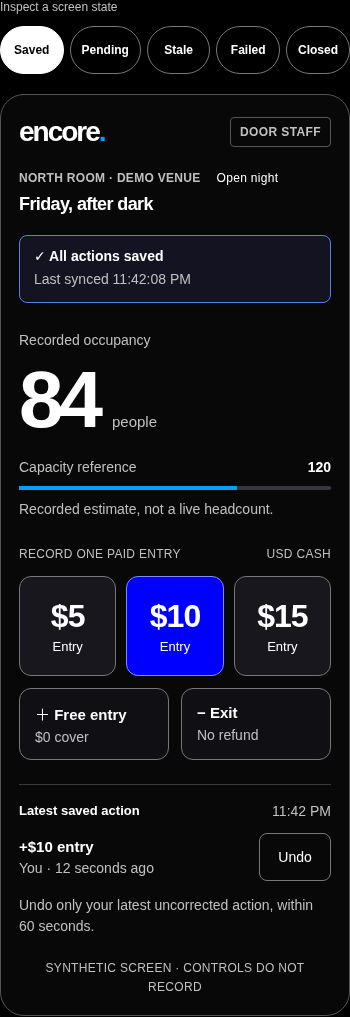
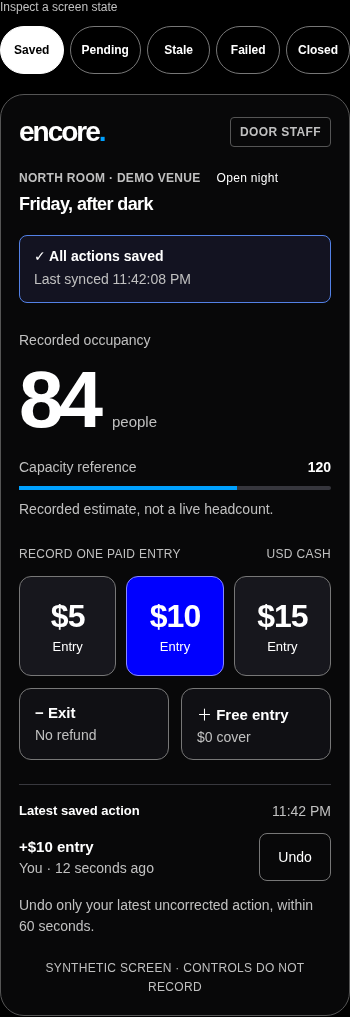
design: place exit left and free entry right

Changed region(s): [[0.0857, 0.6706, 0.3714, 0.7316], [0.5714, 0.6706, 0.8286, 0.7316]]

diff --git a/docs/design/mobile-brand-kit/index.html b/docs/design/mobile-brand-kit/index.html
@@ -13,7 +13,7 @@
 <article class="phone door-phone" aria-label="Synthetic staff door screen"><div class="phone-top"><span class="wordmark">encore<span>.</span></span><span class="role-tag">DOOR STAFF</span></div><div class="venue"><div><p class="eyebrow">NORTH ROOM · DEMO VENUE</p><h3>Friday, after dark</h3></div><span class="night-tag">Open night</span></div>
 <div class="state-message saved"><b>✓ All actions saved</b><span>Last synced 11:42:08 PM</span></div><div class="state-message pending"><b>◷ Checking 1 admission</b><span>$10 entry · Outcome unknown. Do not tap again.</span><p>Last synced 11:42:08 PM. Check this request before retrying.</p></div><div class="state-message stale"><b>! Count may be out of date</b><span>Last synced 11:42:08 PM · 14 seconds ago</span><p>Use your physical clicker while disconnected. Check unresolved actions before resuming.</p></div><div class="state-message failed"><b>! Entry not saved</b><span>$10 entry · Server confirmed it was not recorded.</span><p>Retry this same request when connected.</p></div><div class="state-message closed"><b>✓ Night closed · Read only</b><span>Last synced 2:16:00 AM</span><p>New entries, exits, and undo are unavailable.</p></div>
 <div class="occupancy"><p>Recorded occupancy</p><div class="count">84<span>people</span></div><p class="capacity">Capacity reference <strong>120</strong></p><div class="capacity-track" aria-hidden="true"><span></span></div><p class="reference">Recorded estimate, not a live headcount.</p></div>
-<div class="entry-pad"><p class="section-label">RECORD ONE PAID ENTRY <span>USD CASH</span></p><div class="prices"><button disabled type="button"><span>$5</span>Entry</button><button disabled type="button" class="primary-price"><span>$10</span>Entry</button><button disabled type="button"><span>$15</span>Entry</button></div><div class="secondary-actions"><button disabled type="button"><b>＋ Free entry</b><span>$0 cover</span></button><button disabled type="button"><b>− Exit</b><span>No refund</span></button></div></div>
+<div class="entry-pad"><p class="section-label">RECORD ONE PAID ENTRY <span>USD CASH</span></p><div class="prices"><button disabled type="button"><span>$5</span>Entry</button><button disabled type="button" class="primary-price"><span>$10</span>Entry</button><button disabled type="button"><span>$15</span>Entry</button></div><div class="secondary-actions"><button disabled type="button"><b>− Exit</b><span>No refund</span></button><button disabled type="button"><b>＋ Free entry</b><span>$0 cover</span></button></div></div>
 <div class="recent"><div class="row"><h4>Latest saved action</h4><span>11:42 PM</span></div><div class="row"><span><strong>+$10 entry</strong><small>You · 12 seconds ago</small></span><button type="button" disabled class="undo">Undo</button></div><p class="small undo-guidance">Undo only your latest uncorrected action, within 60 seconds.</p></div><div class="recovery pending"><button disabled type="button">Check request status</button></div><div class="recovery stale"><button disabled type="button">Check connection</button></div><div class="recovery failed"><button disabled type="button">Retry $10 entry</button></div><p class="prototype-label">SYNTHETIC SCREEN · CONTROLS DO NOT RECORD</p></article></div></div></section>
 <section id="owner" class="section owner-section" aria-labelledby="owner-title"><div class="section-heading"><p class="eyebrow">02 / THE CLOSE</p><h2 id="owner-title">End the night<br>with a clear record.</h2><p>Separate owner screens turn a drawer of cash into a readable comparison. No blame. No ambiguous totals.</p></div><div class="owner-grid"><article class="owner-card"><div class="card-top"><span class="step">01</span><span class="role-tag">OWNER ONLY</span></div><p class="eyebrow">BEFORE DOORS</p><h3>A clean starting point.</h3><div class="mock-field"><span>Night</span><strong>Friday, after dark</strong></div><div class="field-pair"><div class="mock-field"><span>Starting occupancy</span><strong>0 people</strong></div><div class="mock-field"><span>Opening float</span><strong>$100.00</strong></div></div><p class="small">People already inside add no cover revenue. Float is separate from cover.</p><div class="preset-row"><span>$5</span><span>$10</span><span>$15</span></div><p class="small">Future price edits affect new entries only.</p><button type="button" disabled class="full-button">Open night</button></article>
 <article class="owner-card receipt"><div class="card-top"><span class="step">02</span><span class="role-tag">OWNER ONLY</span></div><p class="eyebrow">REVIEW & CLOSE · SYNTHETIC SCENARIO</p><h3>Compare the drawer.</h3><p class="small">5 paid entries · 1 exit · Recorded occupancy 4</p><dl><div><dt>4 entries × $10</dt><dd>$40.00</dd></div><div><dt>1 entry × $15</dt><dd>$15.00</dd></div><div class="subtotal"><dt>Expected cover</dt><dd>$55.00</dd></div><div><dt>Opening float</dt><dd>$100.00</dd></div><div class="total"><dt>Expected drawer cash</dt><dd>$155.00</dd></div><div><dt>Counted cash, including float</dt><dd>$150.00</dd></div></dl><div class="variance"><span>Cash variance<strong>−$5.00</strong></span><p>$5 less than the recorded expectation. Review the difference.</p></div><p class="small">No unresolved requests. Closing stops new entries, exits, and corrections.</p><button type="button" disabled class="full-button">Review closing confirmation</button></article>

diff --git a/docs/design/mobile-brand-kit/GUIDELINES.md b/docs/design/mobile-brand-kit/GUIDELINES.md
@@ -78,7 +78,7 @@ The door screen has five stable regions in order:
 4. **Actions:** three price controls, separate Free entry, and a visibly distinct Exit control. Place this group in the lower half on a typical phone without forcing important text off short screens.
 5. **Recent actions:** acknowledgment, amount, time, permitted actor context, and eligible Undo. Keep pending items visibly separate from saved history.
 
-Use at least 48 × 48 CSS pixel touch targets; prefer 56–64 pixels high for routine controls and larger price tiles. Leave at least 8 pixels between adjacent targets. Use full-width labels on 320-pixel screens if a three-column price layout would squeeze text. Never position Exit directly against a primary admission target with no separation.
+Use at least 48 × 48 CSS pixel touch targets; prefer 56–64 pixels high for routine controls and larger price tiles. Leave at least 8 pixels between adjacent targets. Use full-width labels on 320-pixel screens if a three-column price layout would squeeze text. Place Exit (−) on the left and Free entry (+) on the right in both visual and document order. This puts the increment action on the right without changing its $0 meaning. Never position Exit directly against a primary admission target with no separation.
 
 Respect safe-area insets at top and bottom. Sticky action groups must not cover focused controls, feedback, browser chrome, or the virtual keyboard. At large text sizes and short heights, allow ordinary page scrolling rather than shrinking text or trapping content in a fixed-height phone shell. No swipe-only, hover-only, long-press-only, or vibration-only operation.
 

diff --git a/docs/handoffs/design-entry-exit-order.md b/docs/handoffs/design-entry-exit-order.md
@@ -1,0 +1,29 @@
+# Design — exit left, entry right
+
+## Task
+
+User-requested follow-up on `design/mobile-brand-kit` / draft PR #26: put Exit (−) on the left and Free entry (+) on the right.
+
+## Outcome
+
+The mobile specimen now matches the requested increment/decrement placement in both visual and document order. Preview at `http://127.0.0.1:4173/#door` using the existing design preview command.
+
+## Changes
+
+Swapped the two secondary button elements in the design HTML, specified the arrangement in the design guidelines, and refreshed saved/stale screenshots. Free entry still means $0 cover; Exit still means no refund. All product buttons remain inactive illustrations.
+
+## Verification
+
+Chromium passed at 320/390/430px: labels and element positions, disabled product controls, all five selectable states, hidden actions when closed, and no horizontal overflow. Doctor and check passed. Full typecheck attempted; existing Prisma download-host limitation remains. No application tests or live ledger behavior are claimed.
+
+## Context impact
+
+No canonical document changes: this adjusts only the design proposal, not application behavior, API/schema, or setup. Ryan's #6/#7/#8 scope remains untouched.
+
+## Learning note
+
+Changing document order, rather than only CSS placement, keeps the visual order and reading order aligned.
+
+## Next step
+
+Review the new placement in draft PR #26. Production implementation and physical-phone usability verification remain later work after prerequisites merge. No merge or deployment performed.

diff --git a/docs/design/mobile-brand-kit/VERIFICATION.md b/docs/design/mobile-brand-kit/VERIFICATION.md
@@ -30,3 +30,7 @@ The staged `pnpm run context:check --base origin/main` passed the structured han
 - Full application build was not run: `scripts/build.ts` begins with the same blocked Prisma generation. There are no application changes in this design task. A future full check needs the environment owner to permit the documented Prisma download host.
 - No real phone, iOS/Safari, VoiceOver/TalkBack, screen-reader, virtual-keyboard, or physical venue usability test was performed. No blanket WCAG AAA certification is claimed. Computed palette ratios are documented in the guidelines.
 - This review has no real actions, persistence, auth, shared state, polling, or financial endpoint. It cannot prove transaction ordering, retries, permissions, concurrency, or two-device behavior. Those remain implementation gates after the relevant prerequisites merge.
+
+## Follow-up: left exit / right entry
+
+Swapped the secondary action document order: Exit (−), No refund on the left; Free entry (+), $0 cover on the right. Refreshed both mobile evidence images. Chromium checks at 320/390/430 pixels passed label, left-to-right position, disabled illustrative-control, five-state selection, closed-state hiding, and no-overflow assertions. Doctor and repository checks passed again. Full typecheck was attempted again; the existing Prisma host limitation remains separately reported.
